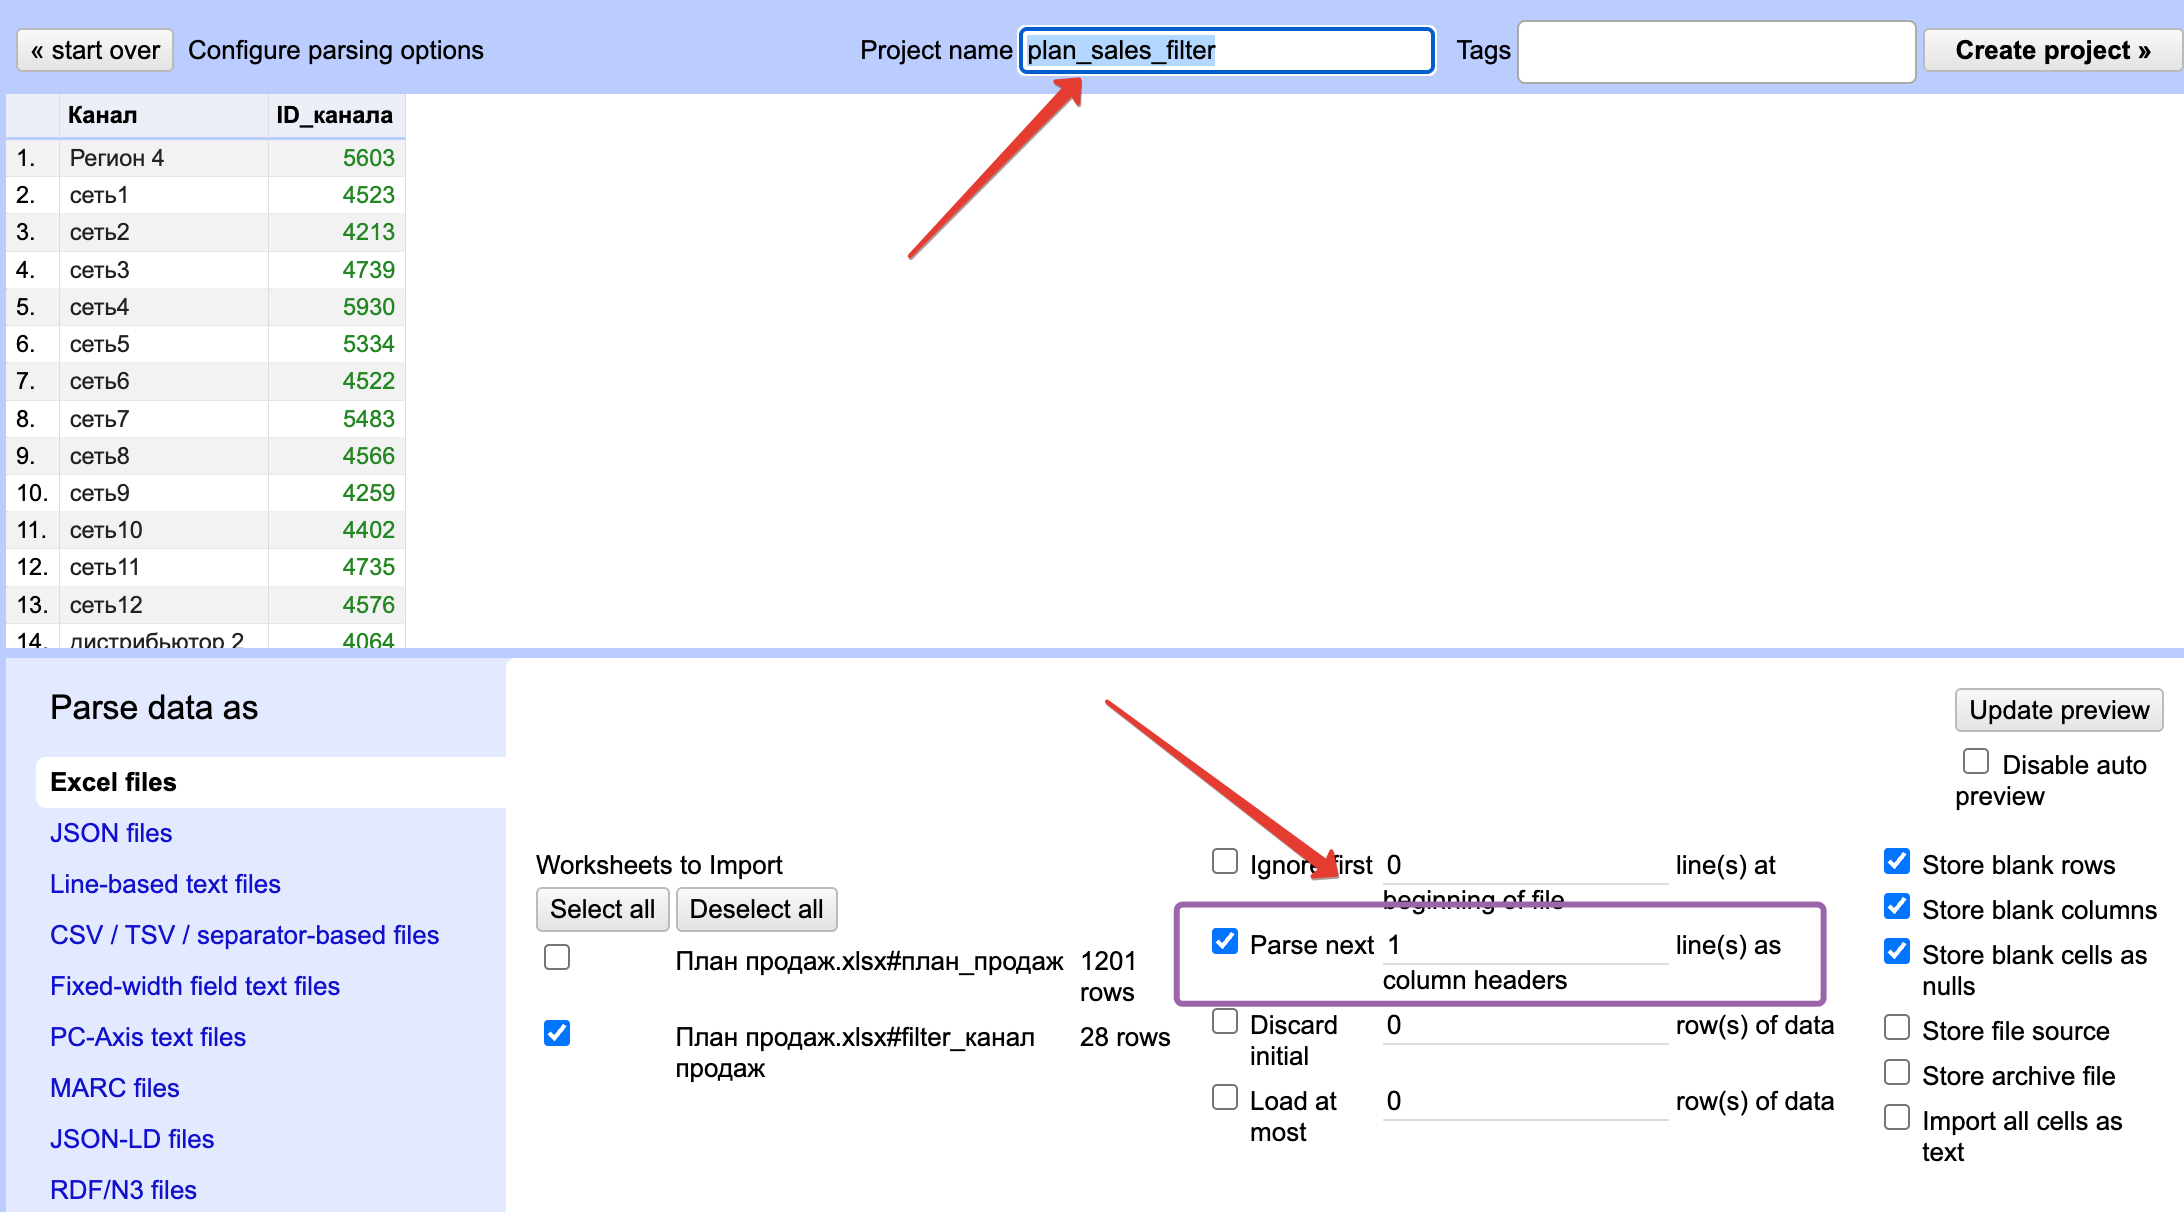
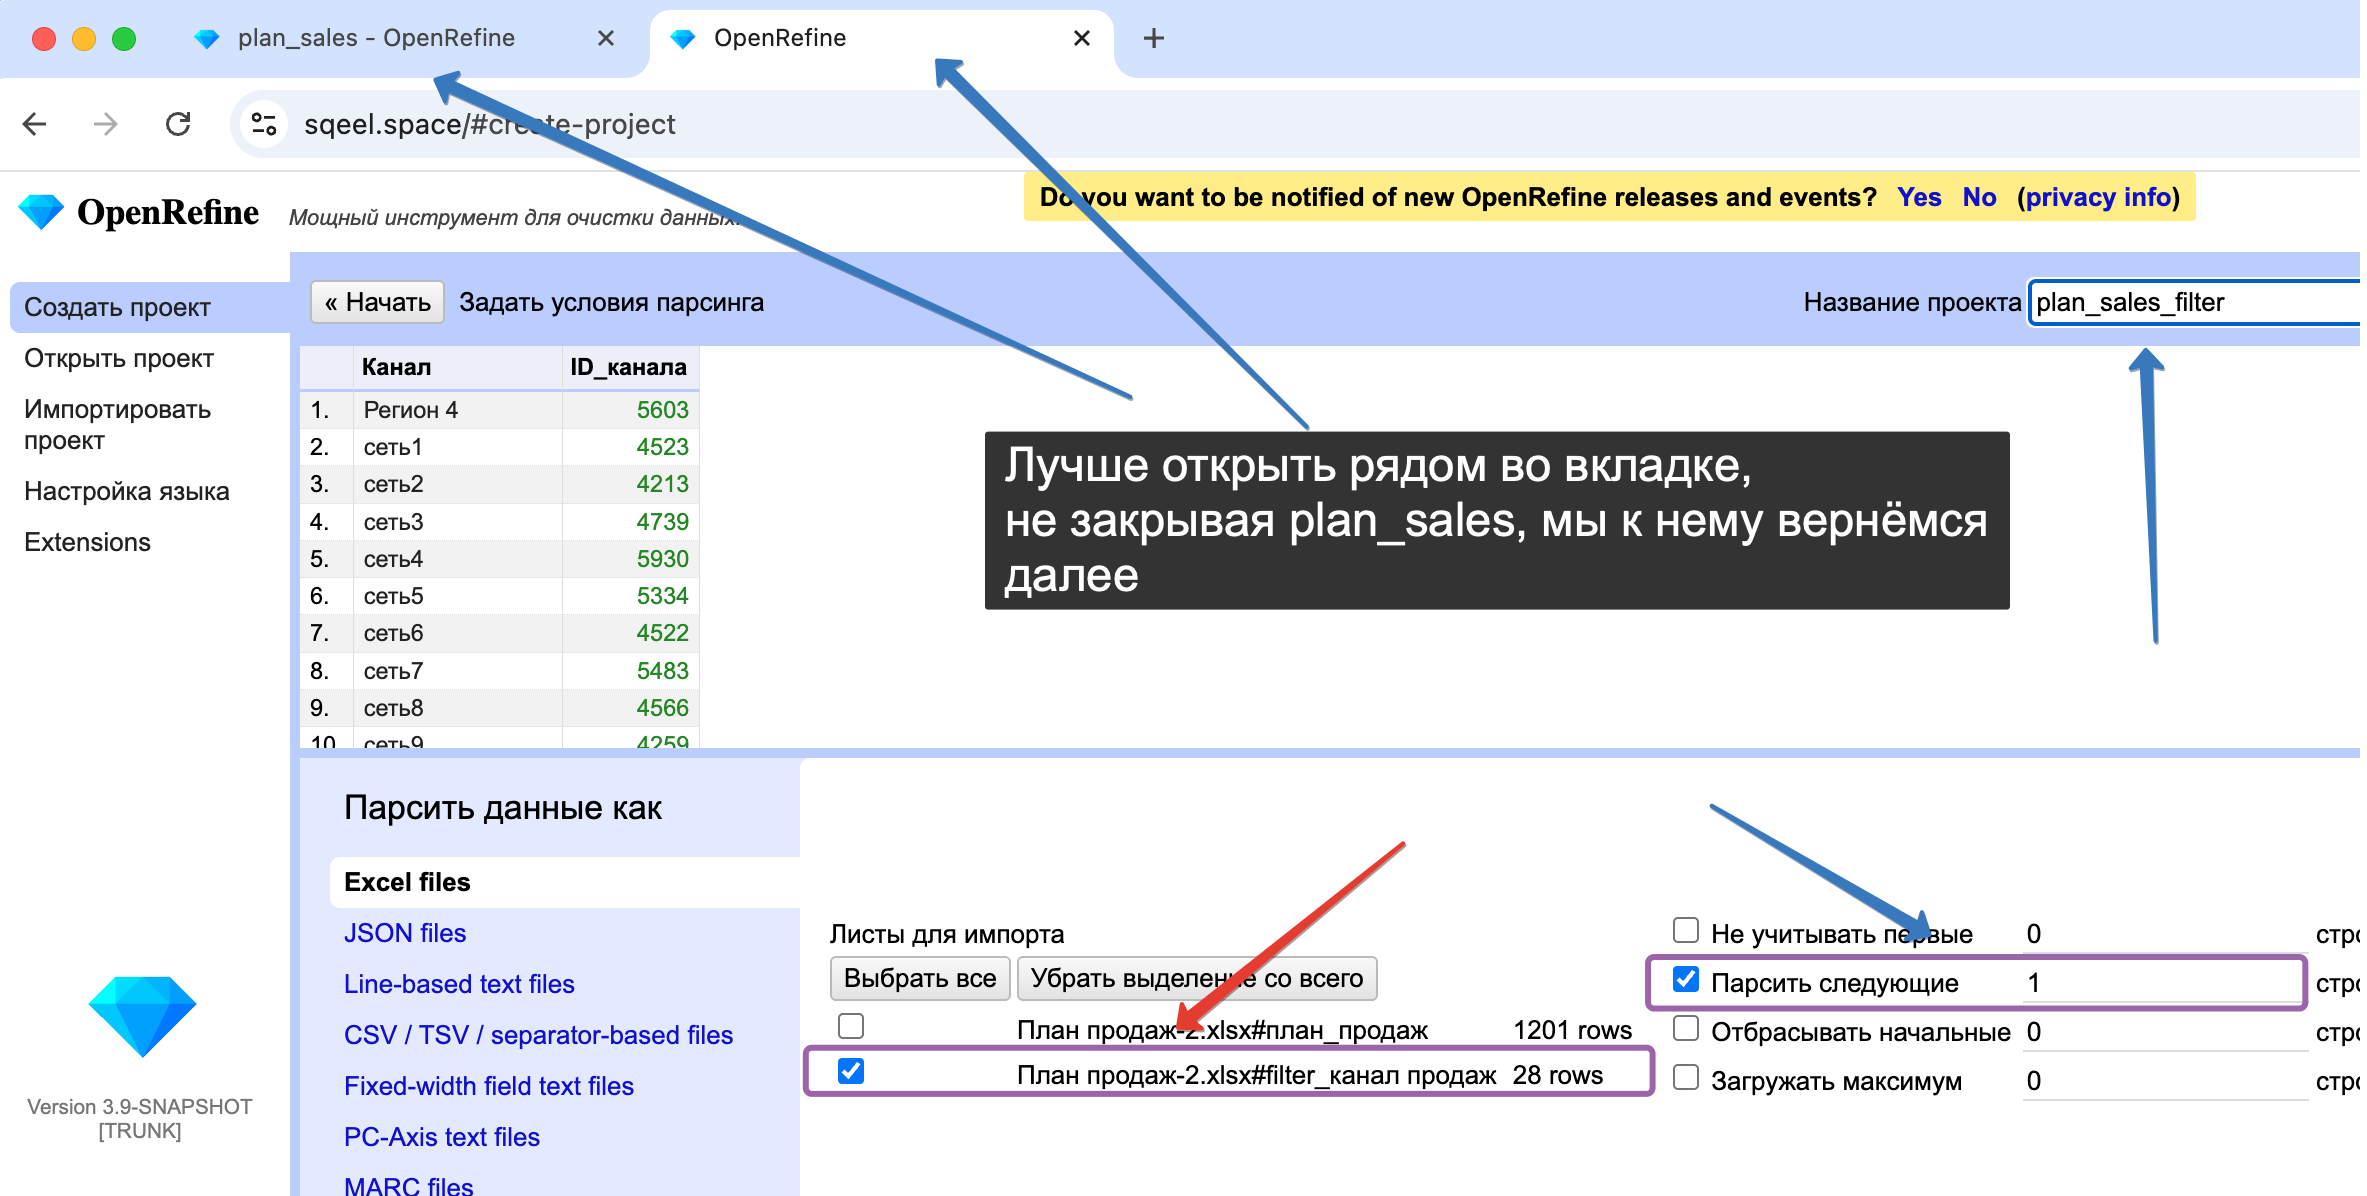
fix(excel_import): russian language

diff --git a/README.md b/README.md
@@ -31,7 +31,9 @@ curl -L -o "План продаж.xlsx" \
 ## Создаём проект `plan_sales`
 
 - Заходим на страницу с приложением на сайт https://sqeel.space
-- Выбираем раздел "Загрузить данные из / На этом компьютере"
+- Выбираем раздел "Загрузить данные из / На этом компьютере" и выбираем скаченный по ссылке выше файл
+- Выбираем только первый лист этого файла, т.к. второй нам здесь не нужен (на скрине ниже забыли убрать галочку, но 
+  это не критично даже если будет стоять)
 
 ![img](img/create_project.png)
 
@@ -150,11 +152,17 @@ if(
 
 ## Создаём проект plan_sales_filter
 
+> ℹ **Информация:** лучше это сделать на новой вкладке и не закрывать работу с plan_sales,
+> так как мы к нему ещё вернёмся ниже.
 
+
+- Заходим на страницу с приложением на сайт https://sqeel.space
+- Выбираем раздел "Загрузить данные из / На этом компьютере" и выбираем тот же файл, скаченный по ссылке выше
+- Выбираем второй лист у этого файла
 
 ### Импортируем
 
-- Ставим галочку parse next со значением 1
+- Ставим галочку "Парсить следующие" со значением 1
 - Называем проект plan_sales_filter
 
 ![img](img/import_plan_sales_settings.png)
